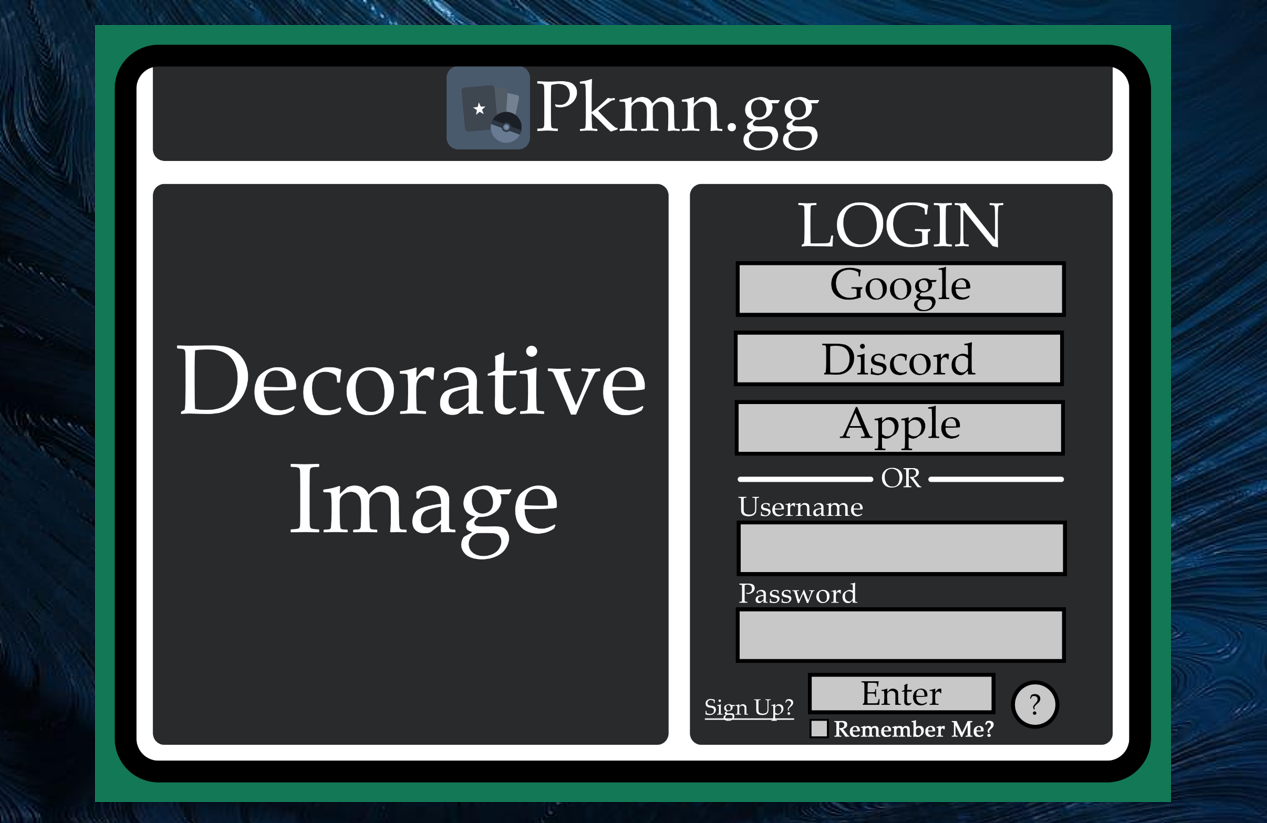
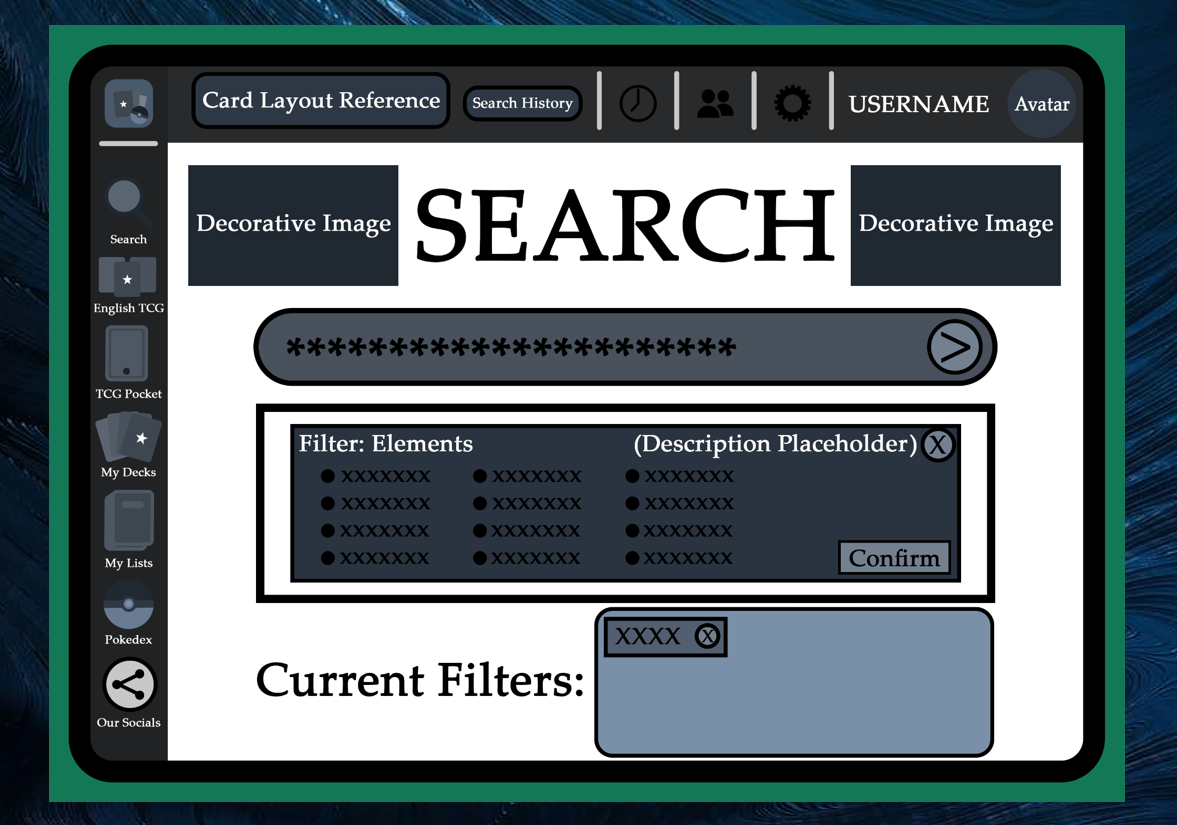
Artifacts Filled Out
Fully filled out all current present artifacts on the page

diff --git a/design.html b/design.html
@@ -89,7 +89,7 @@
                             </p>
 
                             <!-- Preliminary Image -->
-                            <img src="Images/pkmn_Low_Fidelity_Prototype.png" alt="Pkmn.gg Low Fidelity Prototype"
+                            <img src="Images/pkmn_Cover.png" alt="Pkmn.gg Low Fidelity Prototype"
                                 class="img-fluid showcase-img">
 
                         </div>
@@ -127,27 +127,37 @@
 
                             <!-- LEFT: Slideshow -->
                             <div class="col-md-6 text-center">
-                                <img id="slideImage" src="image1.jpg" class="img-fluid rounded">
+                                <img id="slideImage" src="Images/pkmn_Original_Website.png" class="img-fluid rounded">
 
                                 <div class="mt-3">
-                                    <button id="prevBtn" class="btn btn-secondary btn-sm">Prev</button>
-                                    <button id="nextBtn" class="btn btn-secondary btn-sm">Next</button>
+                                    <button id="prevBtn" class="btn btn-secondary btn-md">Prev</button>
+                                    <button id="nextBtn" class="btn btn-secondary btn-md">Next</button>
                                 </div>
                             </div>
 
                             <!-- RIGHT: Text -->
                             <div class="col-md-6">
                                 <p>
-                                    This project consisted of taking a poorly designed website, whether it showcased
-                                    extremely bad UX/UI design, or only a few aspects of the application were, and
-                                    providing a series of Low-Fidelity and High-Fidelity screens that we tested to
-                                    ensure accessibility and ease of use. I learned that it's helpful to create a series
-                                    of different designs and ideas, then gain feedback and test those ideas to be able
-                                    to improve upon your work to make it better. I found this project to be extremely
-                                    interesting, as I never really knew how much work was put into making sure the user
-                                    could easily understand and use applications in a variety of ways. I enjoyed being
-                                    able to have creative freedom to create new ideas and then receive feedback to help
-                                    shape and mold those ideas.
+                                    This project consisted of taking a poorly designed website, even if only a few
+                                    aspects were poorly designed and providing a series of Low and High-Fidelity screens
+                                    that we tested to ensure accessibility and ease of use. I learned that it's helpful
+                                    to create a series of different designs and ideas, then gain feedback and test those
+                                    ideas to be able to improve upon your work to make it better. I found this project
+                                    to be extremely interesting, as I never knew how much work was put into
+                                    making sure the user could easily understand and use applications in a variety of
+                                    ways. I enjoyed having creative freedom to create new ideas and then
+                                    receive feedback to help shape and mold those ideas.
+                                </p>
+
+                                <p>
+                                    The first image is the original website, where, at the time of the redesign, it was
+                                    difficult to search and find a card as the filters were hard to locate and
+                                    understand as well as it being hard to naviagte the website in general as there were
+                                    no labels. The second image is a rough draft of the redesign. The 3rd and 4th
+                                    images respecfively are the more thoughfully filled out and designed aspects.
+                                    Looking back, I would format the redesigns I created a bit better to more accuratly
+                                    represent the look on a webpage as well as provide what it would look like on mobile
+                                    versus a laptop.
                                 </p>
                             </div>
 
@@ -170,7 +180,7 @@
 </footer>
 
 <script>
-    const images = ["image1.jpg", "image2.jpg", "image3.jpg"];
+    const images = ["Images/pkmn_Original_Website.png", "Images/pkmn_Rough_Draft_Prototype.png", "Images/pkmn_Low_Fidelity_Prototype.png", "Images/pkmn_High_Fidelity_Prototype.png"];
     let index = 0;
 
     const slideImage = document.getElementById("slideImage");

diff --git a/gamedev.html b/gamedev.html
@@ -90,7 +90,7 @@
                         </p>
 
                         <!-- Preliminary Image -->
-                        <img src="Images/pkmn_Low_Fidelity_Prototype.png" alt="Pkmn.gg Low Fidelity Prototype"
+                        <img src="Images/FoxTrot_Start_Screen.png" alt="Pkmn.gg Low Fidelity Prototype"
                             class="img-fluid showcase-img">
 
                     </div>
@@ -131,11 +131,11 @@
 
                         <!-- LEFT: Slideshow -->
                         <div class="col-md-6 text-center">
-                            <img id="slideImage" src="image1.jpg" class="img-fluid rounded">
+                            <img id="slideImage" src="Images/FoxTrot_Gameplay.png" class="img-fluid rounded">
 
                             <div class="mt-3">
-                                <button id="prevBtn" class="btn btn-secondary btn-sm">Prev</button>
-                                <button id="nextBtn" class="btn btn-secondary btn-sm">Next</button>
+                                <button id="prevBtn" class="btn btn-secondary btn-md">Prev</button>
+                                <button id="nextBtn" class="btn btn-secondary btn-md">Next</button>
                             </div>
                         </div>
 
@@ -151,6 +151,18 @@
                                 something for others to enjoy. Some of the various skills I learned were programming in
                                 C#, using Unity, Character Concept Design, Background Art, and learning how to use
                                 various tools within the software.
+                            </p>
+
+                            <p>
+                                The first image showcases some of the gameplay and the second
+                                image showcases some of the animation that plays before the game starts, giving the
+                                player more of an idea of the story. The third image is of the Unity Scene
+                                Builder where I built the actual game to give an inside view of the project. The final
+                                image is a snippet of some of the code used to have the background move with the player
+                                in a loop, creating a parallax effect.To improve this project, I would defiently like to
+                                rework some of the artwork as have improve since last creating this game as well as
+                                rework some of the code to be better efficent and expand upon the games story and add
+                                more levels to make FoxTrot more intriguing and engaging to play.
                             </p>
                         </div>
 
@@ -173,7 +185,7 @@
 </footer>
 
 <script>
-    const images = ["image1.jpg", "image2.jpg", "image3.jpg"];
+    const images = ["Images/FoxTrot_Gameplay.png", "Images/FoxTrot_Gameplay_Animation.png", "Images/FoxTrot_Unity_Scene_Builder.png", "Images/FoxTrot_Code_Snippet.png"];
     let index = 0;
 
     const slideImage = document.getElementById("slideImage");

diff --git a/webdev.html b/webdev.html
@@ -91,8 +91,7 @@
                         </p>
 
                         <!-- Preliminary Image -->
-                        <img src="Images/pkmn_Low_Fidelity_Prototype.png" alt="Pkmn.gg Low Fidelity Prototype"
-                            class="img-fluid showcase-img">
+                        <img src="Images/AI_Movie_Form.png" alt="AI Movie Form" class="img-fluid showcase-img">
 
                     </div>
                 </div>
@@ -132,11 +131,11 @@
 
                         <!-- LEFT: Slideshow -->
                         <div class="col-md-6 text-center">
-                            <img id="slideImage" src="image1.jpg" class="img-fluid rounded">
+                            <img id="slideImage" src="Images/AI_Website_Brainstorming.png" class="img-fluid rounded">
 
                             <div class="mt-3">
-                                <button id="prevBtn" class="btn btn-secondary btn-sm">Prev</button>
-                                <button id="nextBtn" class="btn btn-secondary btn-sm">Next</button>
+                                <button id="prevBtn" class="btn btn-secondary btn-md">Prev</button>
+                                <button id="nextBtn" class="btn btn-secondary btn-md">Next</button>
                             </div>
                         </div>
 
@@ -151,6 +150,17 @@
                                 the input given from the user, and utilize AI in a creative and efficient way. My
                                 favorite part about this project was being able to create something I could use in my
                                 daily life as both my family and I often struggle to find Movies to watch.
+                            </p>
+
+                            <p>
+                                The first image is the brainstorming process where I narrowed down some topics to choose
+                                from that I believed would be interesting and could actually help others out. The second
+                                image is the Movie Form filled out while the 3rd image showcases the results given back
+                                from the AI based on the input given. The final image showcases a snippet of the code
+                                used to highlight choices selected and display warnings and animations based on the
+                                state of the form. To improve this project, I would possibliy add a few more parameters
+                                and redesign some aspects such as adding animations and making the website design a bit
+                                more user friendly and engaging.
                             </p>
                         </div>
 
@@ -173,7 +183,7 @@
 </footer>
 
 <script>
-    const images = ["image1.jpg", "image2.jpg", "image3.jpg"];
+    const images = ["Images/AI_Website_Brainstorming.png", "Images/AI_Movie_Form_Filled_Out.png", "Images/AI_Movie_Form_Results.png", "Images/AI_Website_Code_Snippet.png"];
     let index = 0;
 
     const slideImage = document.getElementById("slideImage");

diff --git a/style.css b/style.css
@@ -202,7 +202,7 @@ hr {
 
 /* Main modal look */
 .modal-content {
-    background-color: #2A3D66;
+    background-color: #2b6f60;
     color: #000000;
     border-radius: 12px;
     padding: 10px;
